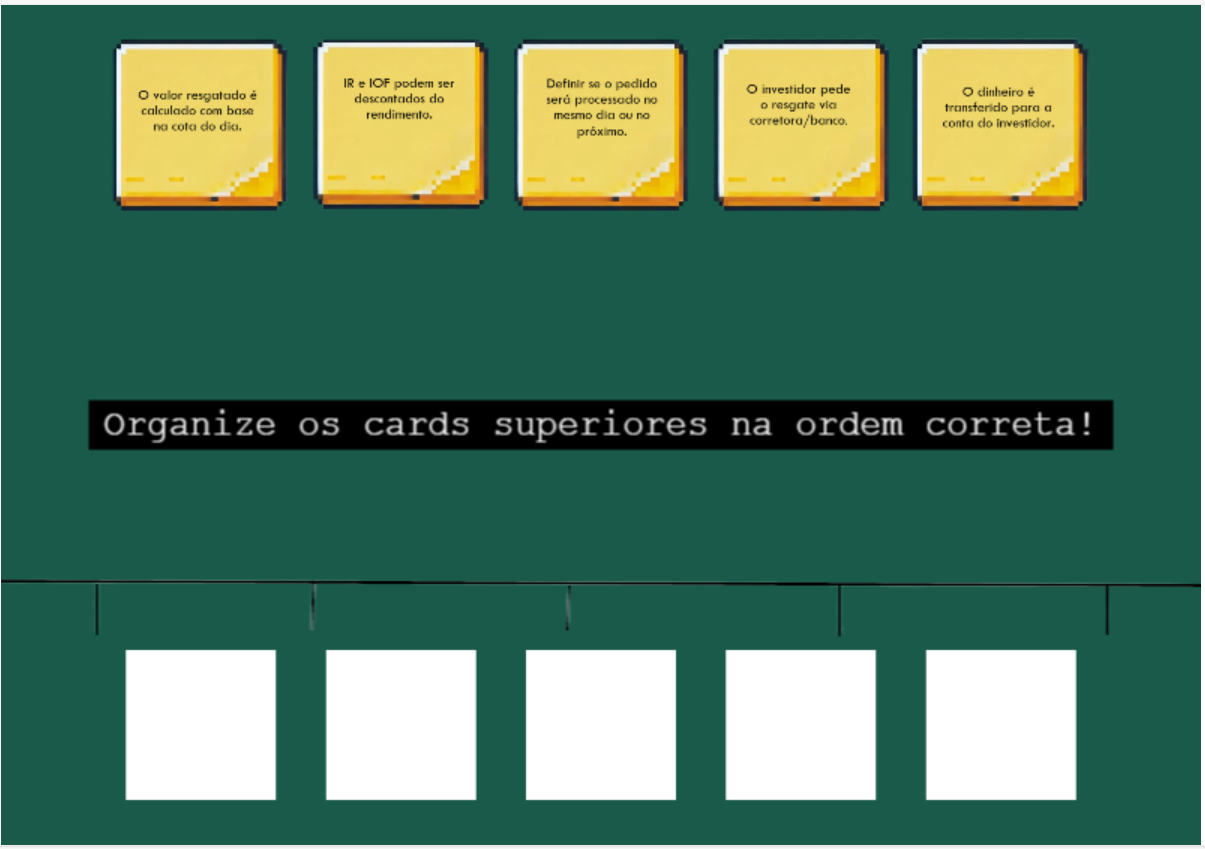
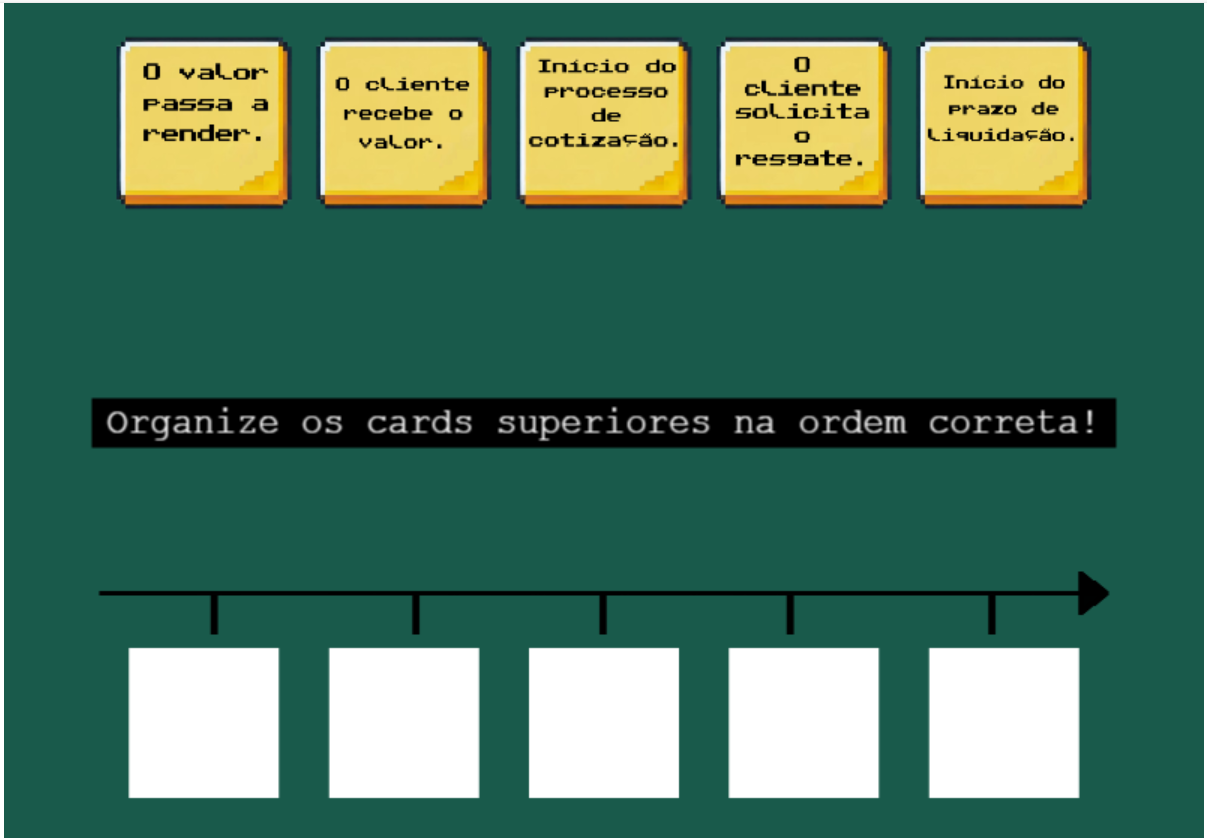
docs: finalização da seção 3.3.4 do GDD
Adição de novas imagens e descrições para a completude da seção 3.3.4 do GDD que trata sobre a Concept art do jogo

diff --git a/documents/gdd.md b/documents/gdd.md
@@ -322,23 +322,45 @@ _Caso seja relevante, descreva como o tempo passa, se ele é um fator limitante 
 
 ### 3.3.4. Concept Art (sprint 2)
 
-_Inclua imagens de Concept Art do jogo que ainda não foram demonstradas em outras seções deste documento. Para cada imagem, coloque legendas, como no exemplo abaixo._
+<div align="center">
+    <img src="../assets/imagensConceptArt/telaInicial.png" width="500"><br>
+    <p>Figura 1: tela inicial do jogo, apresentando a opção para o jogador iniciar uma nova partida.</p>
+</div>
 
-<img src="../assets/concept1.jpg">
+<div align="center">
+    <img src="../assets/imagensConceptArt/mapa1.png" width="500"><br>
+    <p>Figura 2: visão do mapa inicial do jogo, destacando o ambiente do escritório. No canto superior direito, um computador com um ícone de exclamação indica que o jogador pode interagir com ele.</p>
+</div>
 
-Figura 1: detalhe da cena da partida do herói para a missão, usando sua nave
+<div align="center">
+    <img src="../assets/imagensConceptArt/materialDeApoio1.png" width="500"><br>
+    <p>Figura 3: exemplo de material de apoio disponibilizado para o jogador antes de cada fase.</p>
+</div>
 
-<img src="../assets/imagensConceptArt/telaInicial.jpg">
-Figura 1: tela inicial do jogo, apresentando a opção para o jogador iniciar uma nova partida.
+<div align="center">
+    <img src="../assets/imagensConceptArt/miniGame1.png" width="500"><br>
+    <p>Figura 4: minijogo sobre diferenciação de fundos de investimento.</p>
+</div>
 
-<img src="../assets/imagensConceptArt/mapa1.jpg">
-Figura 2: visão do mapa inicial do jogo, destacando o ambiente do escritório. No canto superior direito, um computador com um ícone de exclamação indica que o jogador pode interagir com ele.
+<div align="center">
+    <img src="../assets/imagensConceptArt/miniGame2.png" width="500"><br>
+    <p>Figura 5: minijogo sobre resgate em fundos de investimentoo.</p>
+</div>
 
-<img src="../assets/imagensConceptArt/materialDeApoio3.jpg">
-Figura 3: exemplo de material de apoio disponibilizado para o jogador antes de cada fase.
+<div align="center">
+    <img src="../assets/imagensConceptArt/miniGame3.png" width="500"><br>
+    <p>Figura 6: minijogo sobre monitoramento de transações bancárias.</p>
+</div>
 
-<img src="../assets/imagensConceptArt/miniGame1.jpg">
-Figura 4: minijogo sobre diferenciação de fundos de investimento. 
+<div align="center">
+    <img src="../assets/imagensConceptArt/pontuacao.png" width="500"><br>
+    <p>Figura 7: tela exibida ao final de um minijogo, apresentando a pontuação final do jogador.</p>
+</div>
+
+<div align="center">
+    <img src="../assets/imagensConceptArt/conceptArt.jpeg" width="500"><br>
+    <p>Figura 8: Concept art dos personagens Steve e Mary.</p>
+</div>
 
 ### 3.3.5. Trilha sonora (sprint 3)
 
